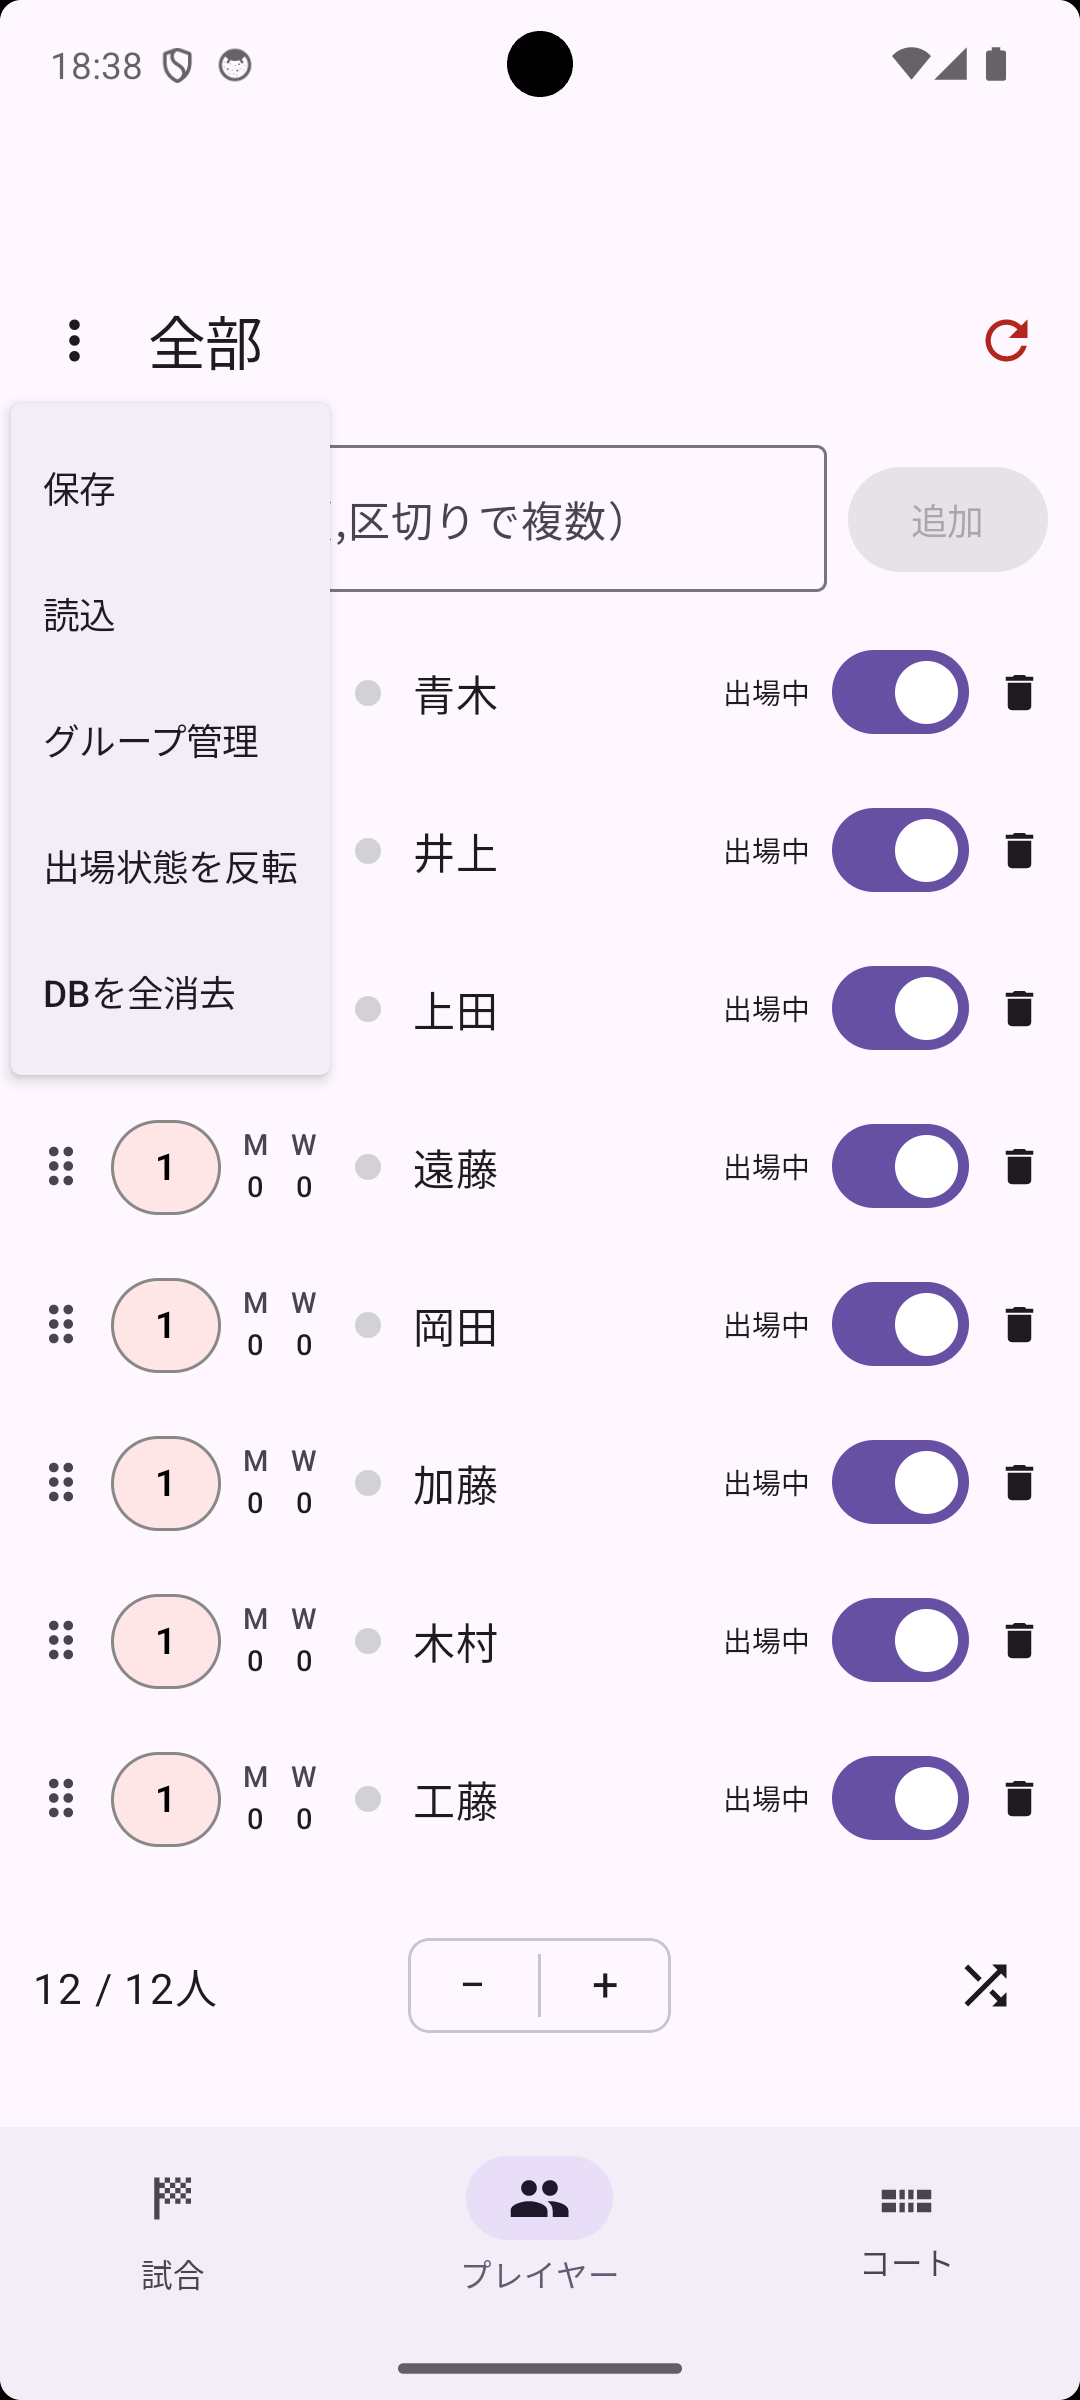
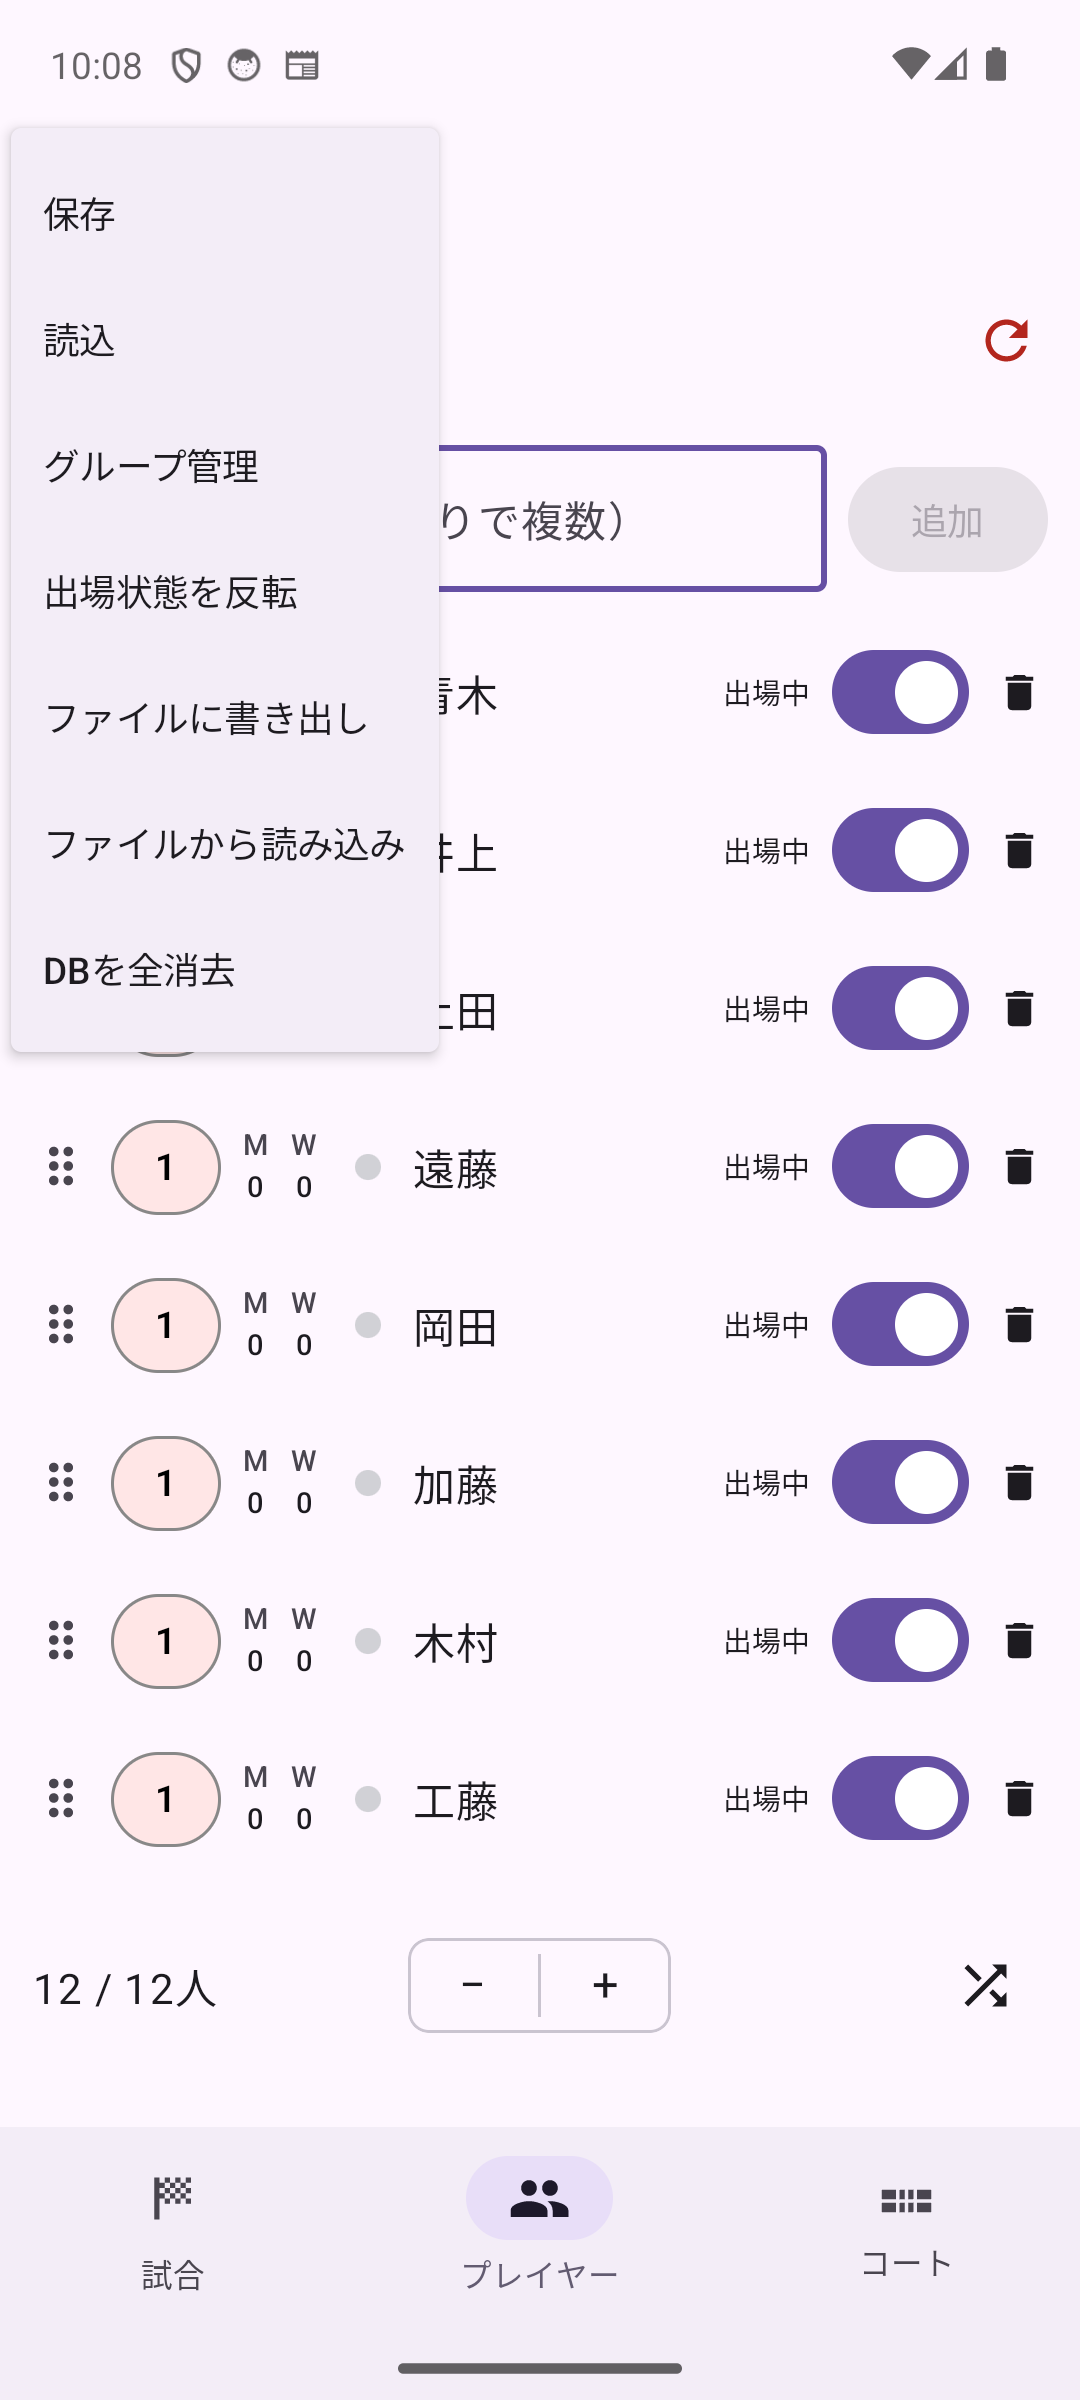
PairGen 1.2.19: プレイヤーのJSONロスター書き出し・読み込みをヘルプに反映
iOS v1.24.0で追加されたプレイヤータブのJSONファイル書き出し・読み込み
機能をAndroid版ヘルプに反映。⋮メニューに「ファイルに書き出し」
「ファイルから読み込み」を追加した画面に合わせてメニュー画像を更新し、
players-tab.htmlに使い方・pairgen.jsonの中身の説明セクションを追加。
逆引きガイド・ホームの主な機能/対応iOSバージョン/更新内容も更新。

diff --git a/players-tab.html b/players-tab.html
@@ -40,6 +40,7 @@
   <li><a href="#save-load">11. メンバーを保存・読み込む</a>
     <ul>
       <li><a href="#groups">グループについて</a></li>
+      <li><a href="#file-operations">ファイルへの書き出し・読み込み</a></li>
     </ul>
   </li>
   <li><a href="#shuffle">12. 開始順をシャッフルする</a></li>
@@ -112,6 +113,7 @@
   <li><strong>読込</strong> — 保存したメンバーをグループ単位で読み込み</li>
   <li><strong>グループ管理</strong> — グループの追加・削除・名前変更</li>
   <li><strong>出場状態を反転</strong> — 全員の出場・休憩状態を一括反転</li>
+  <li><strong>ファイルに書き出し</strong> / <strong>ファイルから読み込み</strong> — メンバーデータベースをJSONファイルとして書き出し・読み込み（詳細は下記）</li>
   <li><strong>DBを全消去</strong> — 保存したメンバーデータをすべて削除</li>
 </ul>
 <div class="ss"><img src="images/players-menu.png" alt="⋮ メニュー"></div>
@@ -125,6 +127,49 @@
 <div class="ss"><img src="images/players-group-assign.png" alt="プレイヤー編集画面のグループセクションでトグルをオン"></div>
 <p>グループを割り当てたら、<code>⋮</code> メニューの <strong>保存</strong> でメンバーデータベースに保存してください。</p>
 <div class="ss"><img src="images/players-group-select.png" alt="読み込むグループの選択画面"></div>
+
+<h3 id="file-operations">ファイルへの書き出し・読み込み</h3>
+<p><code>⋮</code> メニューの <strong>ファイルに書き出し</strong> / <strong>ファイルから読み込み</strong> から、メンバーデータベース全体（すべてのグループ・すべてのプレイヤー）をJSONファイルとして書き出したり、書き出したファイルから読み込んだりできます。機種変更時のデータ移行や、パソコンなどでファイルを直接編集して一括登録したい場合に利用できます。</p>
+<ul>
+  <li><strong>ファイルに書き出し</strong> — メンバーデータベース全体を <code>pairgen.json</code>（ファイル名は保存時に変更可能）として書き出し、保存先を選択する画面が開きます（端末の「ダウンロード」フォルダやGoogleドライブなど、標準のファイル選択画面から選べます）。</li>
+  <li><strong>ファイルから読み込み</strong> — JSONファイルを選択すると内容を確認するダイアログが表示され、<strong>置き換え</strong> を選ぶと保存済みのメンバーデータベースと現在のプレイヤーリストが選択したファイルの内容に<strong>すべて置き換わります</strong>（既存データとのマージは行われません）。</li>
+</ul>
+<div class="note">⚠ 読み込んだファイルのJSONに構文の誤りや項目の不足がある場合は、「インポートに失敗しました」というエラーメッセージが表示され、読み込みは行われません。</div>
+
+<h4>pairgen.json の中身について</h4>
+<p><code>pairgen.json</code> はただのテキストファイルなので、パソコン・スマートフォンのテキストエディタアプリ（メモ帳など）や、JSONを編集できるアプリで開いて直接編集できます。内容は次のような形式です。</p>
+<div class="tip">💡 ファイル名は <code>pairgen.json</code> がデフォルトですが、拡張子が <code>.json</code> であれば名前は自由に変更できます（読み込み時もファイル名は問いません）。</div>
+<pre><code>{
+  "groups": [
+    "月曜メンバー",
+    "土曜メンバー"
+  ],
+  "players": [
+    {
+      "name": "田中",
+      "groups": [
+        "月曜メンバー"
+      ]
+    },
+    {
+      "name": "鈴木",
+      "groups": [
+        "月曜メンバー",
+        "土曜メンバー"
+      ]
+    },
+    {
+      "name": "佐藤",
+      "groups": []
+    }
+  ]
+}</code></pre>
+<p>JSONでは空白・改行の入れ方は自由なので、上記と多少違う書き方をしても（1行にまとめる、インデント幅を変えるなど）、キー名と値さえ合っていれば問題なく読み込めます。</p>
+<ul>
+  <li><strong>groups</strong> — グループ名の一覧（配列）</li>
+  <li><strong>players</strong> — プレイヤーの一覧（配列）。1人につき <strong>name</strong>（名前）と <strong>groups</strong>（所属グループ名。<code>groups</code> の一覧に含まれる名前を指定。どのグループにも属さない場合は空の配列 <code>[]</code>）を指定</li>
+</ul>
+<div class="tip">💡 表計算ソフトなどでメンバー一覧を管理している場合も、この形式に沿って書き出せば読み込ませることができます。</div>
 
 <h2 id="shuffle">12. 開始順をシャッフルする</h2>
 <p>組み合わせはプレイヤーリストの並び順をもとに決まります。同じメンバーで練習を重ねていると、試合タブの <code>↻</code> でゲームを初期化するたびに、毎回同じ組み合わせから始まってしまうことがあります。プレイヤータブ下部のシャッフルアイコン（🔀）をタップすると、プレイヤーの名前・レベル・出場設定などをリスト内でランダムに入れ替え、次の組み合わせの偏りを防げます。</p>

diff --git a/home.html b/home.html
@@ -27,7 +27,7 @@
 <body>
 
 <h1>くみあぷ（PairGen）</h1>
-<p><span class="badge">v1.2.18</span><span class="badge">対応 iOS v1.23.0</span></p>
+<p><span class="badge">v1.2.19</span><span class="badge">対応 iOS v1.24.0</span></p>
 <div class="note">⚠ This help is available in Japanese only. Please use your browser's auto-translate feature.</div>
 <p>くみあぷ（PairGen）はバドミントン・テニスなどのダブルス競技向けに、組み合わせを自動生成する Android と iOS のアプリです。参加人数とコート数を設定するだけで、重複を最小限に抑えた組み合わせをすぐに生成できます。</p>
 
@@ -81,6 +81,7 @@
   <li>プレイヤー写真の登録</li>
   <li>メンバーの保存・グループ管理</li>
   <li>プレイヤー一覧に現在出場中かどうかを示す丸印を表示し、タップして「ピン留め」すると次の組み合わせで最優先に出場</li>
+  <li>プレイヤー・グループの情報をJSONファイルとして書き出し／読み込み（機種変更時のデータ移行や、手元での一括編集に）</li>
 </ul>
 
 <h3>コート管理</h3>
@@ -115,12 +116,11 @@
   <li>試合結果メール本文は英語のみ（UI本体は日本語対応）</li>
 </ul>
 
-<h2>バージョン 1.2.18 更新内容</h2>
+<h2>バージョン 1.2.19 更新内容</h2>
 <ul>
-  <li>組み合わせを一度生成すると、既存の組み合わせとの整合性を保つため、プレイヤー数・コート数をその生成時点の人数・面数より減らせないように変更</li>
-  <li>プレイヤー一覧でピン留め中の行に左端のオレンジのアクセントバーを表示し、より目立つように変更。ピン留め中は出場状態を「休憩」に変更できないように変更</li>
-  <li>プレイヤー編集画面のゴミ箱アイコンで削除すると、一覧に戻らずそのまま次（末尾を削除した場合は前）のプレイヤーの編集画面に切り替わるように変更</li>
-  <li>固定ペアの配色、フリーモードのコート色などを見た目を細かく改善</li>
+  <li>プレイヤータブのメニューに「ファイルに書き出し」「ファイルから読み込み」を追加。メンバーデータベース全体をJSONファイル（pairgen.json）として書き出し・読み込みできるようになりました（読み込みは保存済みのメンバーデータベース・現在のプレイヤーリストを丸ごと置き換えます）</li>
+  <li>読み込んだファイルのJSONに誤りがある場合、エラーメッセージを表示して読み込みを中止するように対応</li>
+  <li>プレイヤー写真の読み込み処理を改善し、メモリ使用量を削減</li>
 </ul>
 
 <h2>フィードバック</h2>

diff --git a/reverse-lookup.html b/reverse-lookup.html
@@ -28,6 +28,8 @@
   <li><a href="players-tab.html#status">誰が今試合中か、休憩中かを一目で知りたい</a></li>
   <li><a href="players-tab.html#save-load">名簿を保存して次回も使い回したい</a></li>
   <li><a href="players-tab.html#groups">曜日や練習会ごとにメンバーを分けて管理したい</a></li>
+  <li><a href="players-tab.html#file-operations">機種変更や引っ越しでプレイヤー・グループのデータを移行したい</a></li>
+  <li><a href="players-tab.html#file-operations">プレイヤー一覧をパソコンなどでまとめて編集したい</a></li>
   <li><a href="players-tab.html#reorder">組み合わせの優先順位を来た順にしたい</a></li>
 </ul>
 
